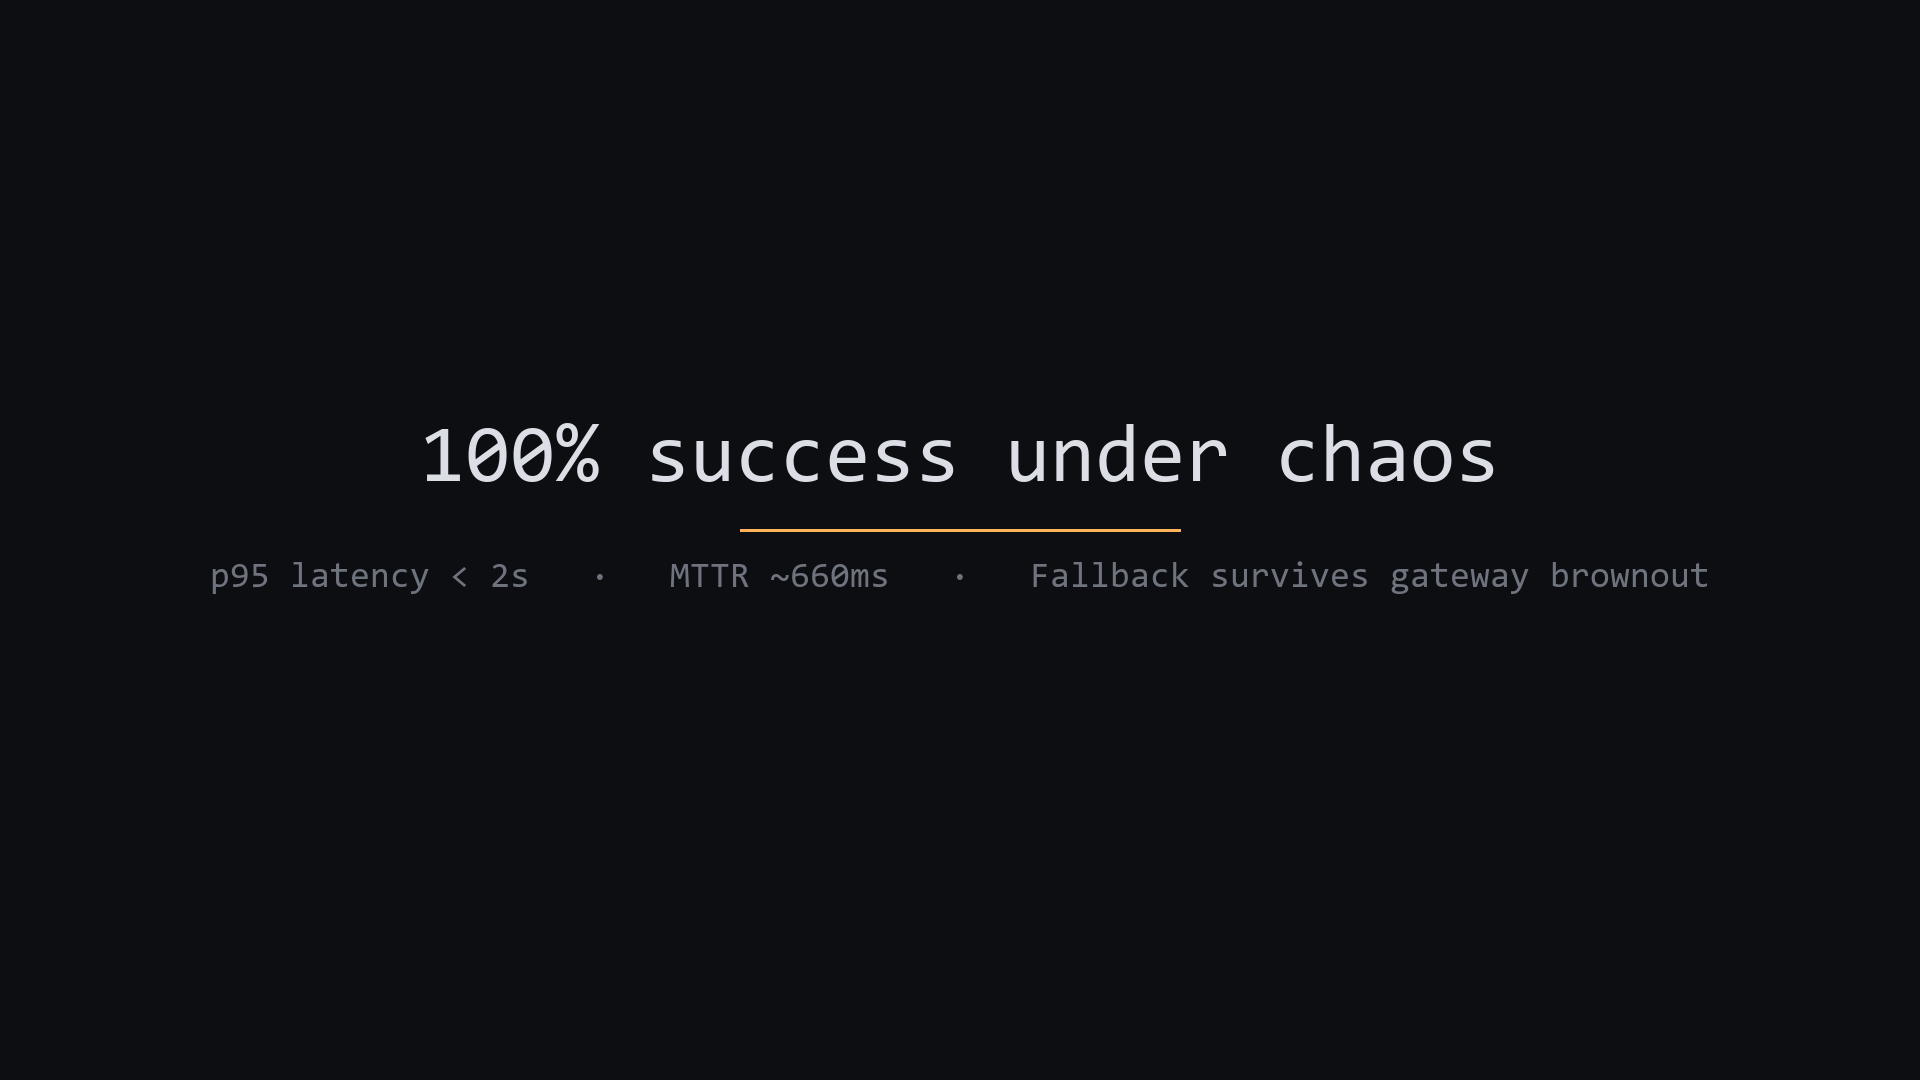
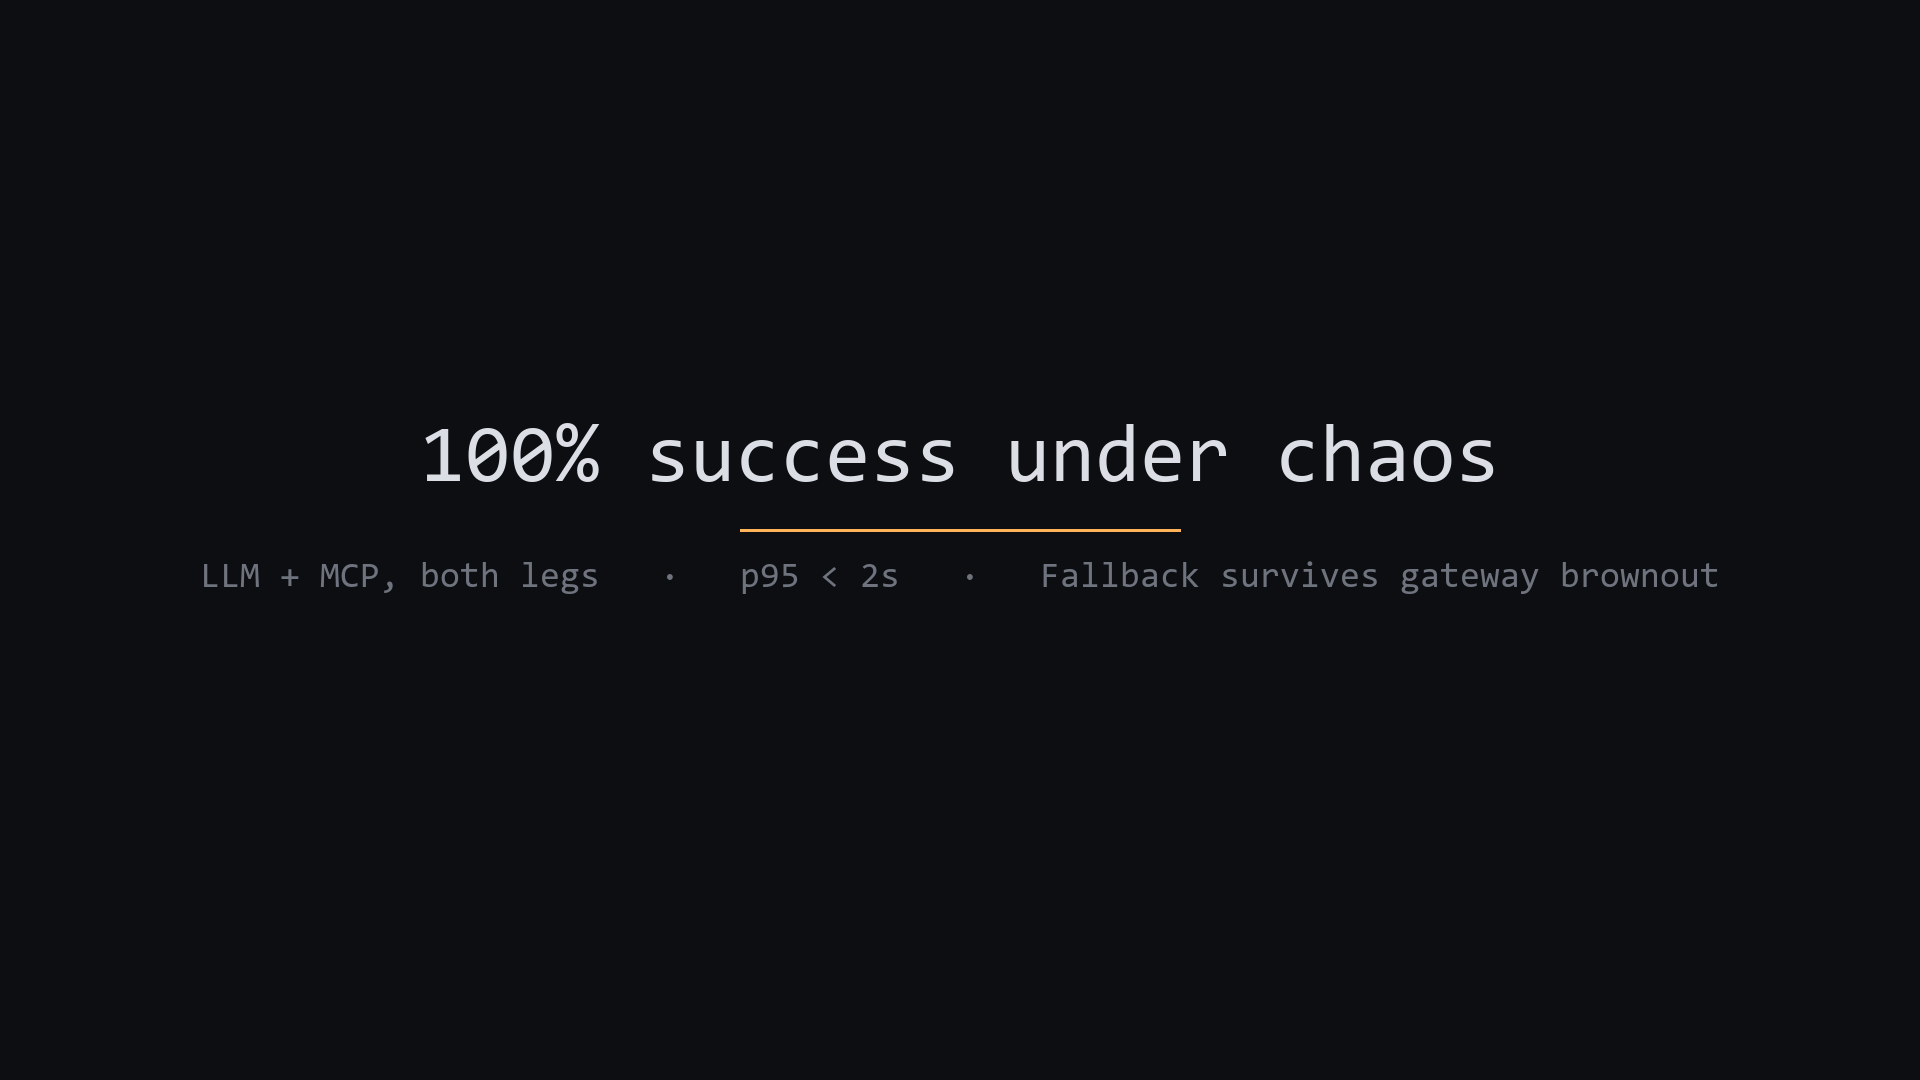
Video v3: 70s with LLM + MCP both legs (+record_live_mcp.py)

Changed region(s): [[0.5312, 0.5194, 0.9062, 0.55], [0.0938, 0.5194, 0.3125, 0.55], [0.3438, 0.5194, 0.4688, 0.55]]

diff --git a/record_live_mcp.py b/record_live_mcp.py
@@ -1,0 +1,151 @@
+"""Live screen recording of the MCP demo (demo_mcp.py).
+
+Layout:
+    [ left: cmd.exe running demo_mcp.py ]  [ right: Chrome on GitHub repo ]
+
+Same orchestrator pattern as record_live.py, with two differences:
+  1. The cmd runs demo_mcp.py — which spawns local FastMCP servers and
+     exercises ResilientMCP against MCP faults.
+  2. The right pane is the GitHub repo page (so a judge can read the
+     code on screen alongside the running demo).
+"""
+from __future__ import annotations
+
+import ctypes
+import subprocess
+import sys
+import time
+from ctypes import wintypes
+from pathlib import Path
+
+ROOT = Path(__file__).parent
+VIDEO_DIR = ROOT / "video"
+OUT = VIDEO_DIR / "segment_live_mcp.mp4"
+
+SCREEN_W = 1920
+SCREEN_H = 1080
+HALF_W = SCREEN_W // 2
+RECORD_S = 60
+DEMO_DELAY_S = 5
+TITLE = f"ResilientMCPDemo_{int(time.time())}"
+PY = r"C:\Users\86150\AppData\Local\Python\pythoncore-3.14-64\python.exe"
+
+user32 = ctypes.windll.user32
+SWP_SHOWWINDOW = 0x0040
+SW_RESTORE = 9
+HWND_TOPMOST = -1
+HWND_NOTOPMOST = -2
+
+
+def enum_windows():
+    out: list[tuple[int, str]] = []
+
+    @ctypes.WINFUNCTYPE(ctypes.c_bool, wintypes.HWND, wintypes.LPARAM)
+    def cb(hwnd, _lp):
+        if not user32.IsWindowVisible(hwnd):
+            return True
+        n = user32.GetWindowTextLengthW(hwnd)
+        if n == 0:
+            return True
+        buf = ctypes.create_unicode_buffer(n + 2)
+        user32.GetWindowTextW(hwnd, buf, n + 1)
+        out.append((hwnd, buf.value))
+        return True
+
+    user32.EnumWindows(cb, 0)
+    return out
+
+
+def find_window(predicate):
+    for hwnd, title in enum_windows():
+        if predicate(title):
+            return hwnd, title
+    return None, None
+
+
+def place(hwnd, x, y, w, h, topmost=False):
+    user32.ShowWindow(hwnd, SW_RESTORE)
+    after = HWND_TOPMOST if topmost else 0
+    user32.SetWindowPos(hwnd, after, x, y, w, h, SWP_SHOWWINDOW)
+
+
+def unset_topmost(hwnd):
+    user32.SetWindowPos(hwnd, HWND_NOTOPMOST, 0, 0, 0, 0, 0x0001 | 0x0002 | SWP_SHOWWINDOW)
+
+
+def main():
+    print("[1/6] navigate chrome to GitHub repo")
+    from playwright.sync_api import sync_playwright
+
+    with sync_playwright() as p:
+        browser = p.chromium.connect_over_cdp("http://localhost:9222")
+        ctx = browser.contexts[0]
+        # find chrome
+        pg = next((t for t in ctx.pages if "Google Chrome" in (t.title() or "") or "github.com" in t.url or "truefoundry.cloud" in t.url), None) or ctx.new_page()
+        pg.bring_to_front()
+        pg.goto("https://github.com/run58669-maker/resilient-agent/blob/main/resilient_mcp.py",
+                wait_until="domcontentloaded", timeout=20000)
+        time.sleep(2.0)
+
+    print("[2/6] find chrome window + place right half")
+    chrome_hwnd, chrome_title = find_window(lambda t: "resilient_mcp.py" in t or t.endswith("Google Chrome"))
+    if not chrome_hwnd:
+        print("  ERROR: chrome window not found")
+        sys.exit(1)
+    print(f"  chrome: '{chrome_title[:60]}' hwnd={chrome_hwnd}")
+    place(chrome_hwnd, HALF_W, 0, HALF_W, SCREEN_H, topmost=True)
+
+    print(f"[3/6] spawn cmd.exe titled '{TITLE}' (delay {DEMO_DELAY_S}s then demo_mcp.py)")
+    win_timeout = r"C:\Windows\System32\timeout.exe"
+    inner = (
+        f"chcp 65001 >nul && "
+        f"title {TITLE} && cd /d {ROOT} && "
+        f"echo === ResilientMCP  DevNetwork 2026 === && "
+        f"echo Starting in {DEMO_DELAY_S} seconds... && "
+        f"{win_timeout} /t {DEMO_DELAY_S} /nobreak >nul && "
+        f'"{PY}" -X utf8 demo_mcp.py 2>&1 | findstr /v "HTTP Request: Received Negotiated" && '
+        f"echo === recording window closes shortly ==="
+    )
+    CREATE_NEW_CONSOLE = 0x00000010
+    subprocess.Popen(f'cmd /K "{inner}"', creationflags=CREATE_NEW_CONSOLE, shell=False)
+
+    print("[4/6] place cmd left half")
+    cmd_hwnd = None
+    for _ in range(50):
+        time.sleep(0.1)
+        cmd_hwnd, _ = find_window(lambda t: TITLE in t)
+        if cmd_hwnd:
+            break
+    if not cmd_hwnd:
+        print("  ERROR: cmd window not found")
+        sys.exit(1)
+    place(cmd_hwnd, 0, 0, HALF_W, SCREEN_H, topmost=True)
+    time.sleep(0.6)
+
+    print(f"[5/6] ffmpeg gdigrab {RECORD_S}s -> {OUT.name}")
+    VIDEO_DIR.mkdir(exist_ok=True)
+    log = (VIDEO_DIR / "ffmpeg_live_mcp.log").open("w")
+    proc = subprocess.Popen(
+        [
+            "ffmpeg", "-y",
+            "-f", "gdigrab", "-framerate", "30", "-t", str(RECORD_S),
+            "-i", "desktop",
+            "-c:v", "libx264", "-preset", "veryfast", "-crf", "20",
+            "-pix_fmt", "yuv420p",
+            str(OUT),
+        ],
+        stdout=log, stderr=log,
+    )
+
+    print("[6/6] recording...")
+    rc = proc.wait()
+    log.close()
+    print(f"  ffmpeg rc={rc}")
+    unset_topmost(cmd_hwnd)
+    unset_topmost(chrome_hwnd)
+    user32.PostMessageW(cmd_hwnd, 0x0010, 0, 0)
+    print(f"\n  → {OUT}  ({OUT.stat().st_size // 1024} KB)")
+
+
+if __name__ == "__main__":
+    main()

diff --git a/compose_final.py b/compose_final.py
@@ -20,6 +20,7 @@ from PIL import Image, ImageDraw, ImageFont
 ROOT = Path(__file__).parent
 VIDEO_DIR = ROOT / "video"
 LIVE = VIDEO_DIR / "segment_live.mp4"
+LIVE_MCP = VIDEO_DIR / "segment_live_mcp.mp4"
 SLIDES = VIDEO_DIR / "slides"
 OUTPUT = VIDEO_DIR / "submission.mp4"
 
@@ -66,10 +67,10 @@ def make_slide_video(image_path: Path, seconds: float, out: Path) -> Path:
     return out
 
 
-def trim_live(start: float, length: float, out: Path) -> Path:
-    """Trim the live capture and re-encode so concat works cleanly."""
+def trim_live(start: float, length: float, src: Path, out: Path) -> Path:
+    """Trim a live capture and re-encode so concat works cleanly."""
     subprocess.run([
-        "ffmpeg", "-y", "-ss", str(start), "-i", str(LIVE),
+        "ffmpeg", "-y", "-ss", str(start), "-i", str(src),
         "-t", str(length),
         "-c:v", "libx264", "-pix_fmt", "yuv420p",
         "-vf", f"scale={W}:{H}", "-r", str(FPS),
@@ -110,13 +111,24 @@ def main() -> None:
     )
     parts.append(make_slide_video(s2_png, 4.0, SLIDES / "s2.mp4"))
 
-    # Live demo trimmed: start a bit before the countdown ends, end after scorecard
-    parts.append(trim_live(start=4.0, length=25.0, out=SLIDES / "live.mp4"))
+    # Live LLM demo trimmed: start before countdown ends, end after scorecard
+    parts.append(trim_live(start=4.0, length=25.0, src=LIVE, out=SLIDES / "live_llm.mp4"))
+
+    # Bridge slide — same primitive applied to the MCP layer
+    s2b_png = slide(
+        "Same primitive, MCP side",
+        "ResilientMCP wraps tool calls across two MCP servers under chaos",
+        SLIDES / "s2b.png",
+    )
+    parts.append(make_slide_video(s2b_png, 4.0, SLIDES / "s2b.mp4"))
+
+    # Live MCP demo trimmed
+    parts.append(trim_live(start=4.0, length=25.0, src=LIVE_MCP, out=SLIDES / "live_mcp.mp4"))
 
     # Outro 1
     s3_png = slide(
         "100% success under chaos",
-        "p95 latency < 2s   ·   MTTR ~660ms   ·   Fallback survives gateway brownout",
+        "LLM + MCP, both legs   ·   p95 < 2s   ·   Fallback survives gateway brownout",
         SLIDES / "s3.png",
     )
     parts.append(make_slide_video(s3_png, 5.0, SLIDES / "s3.mp4"))